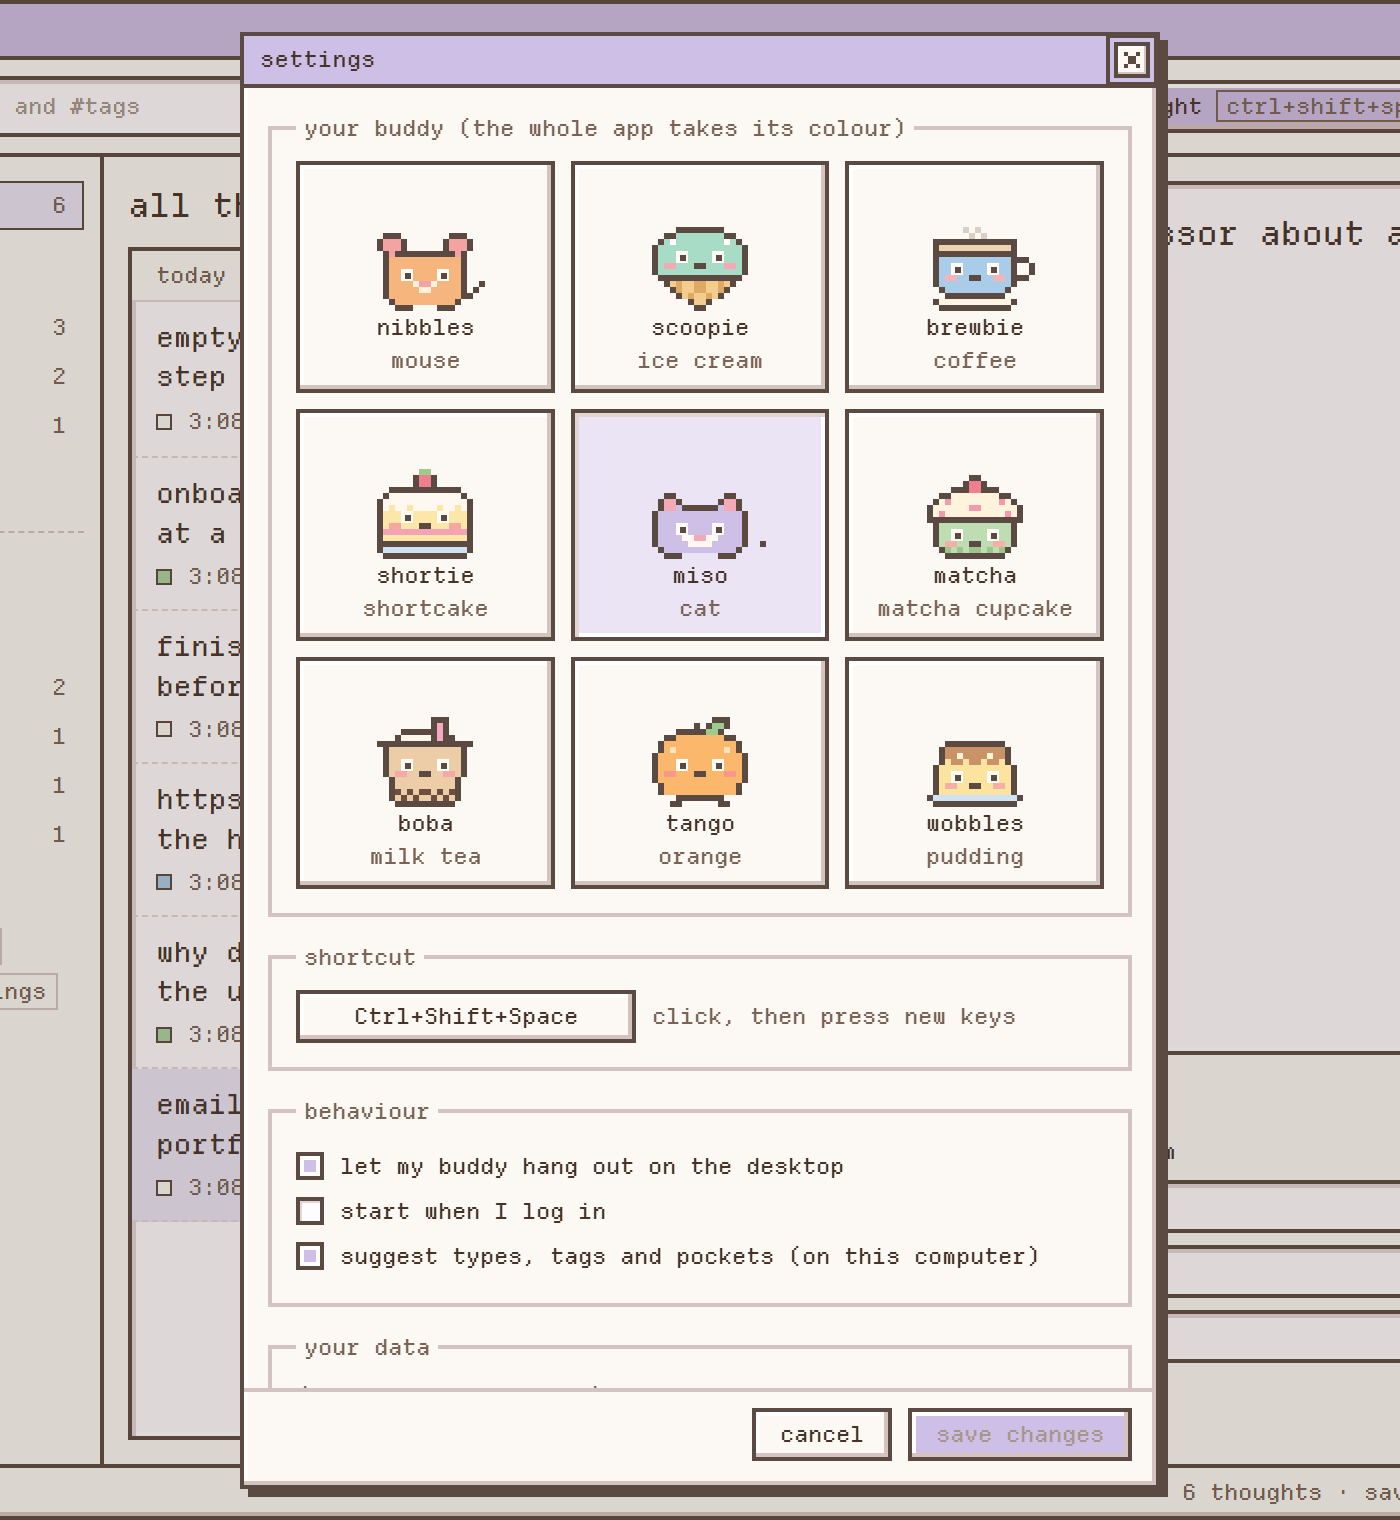
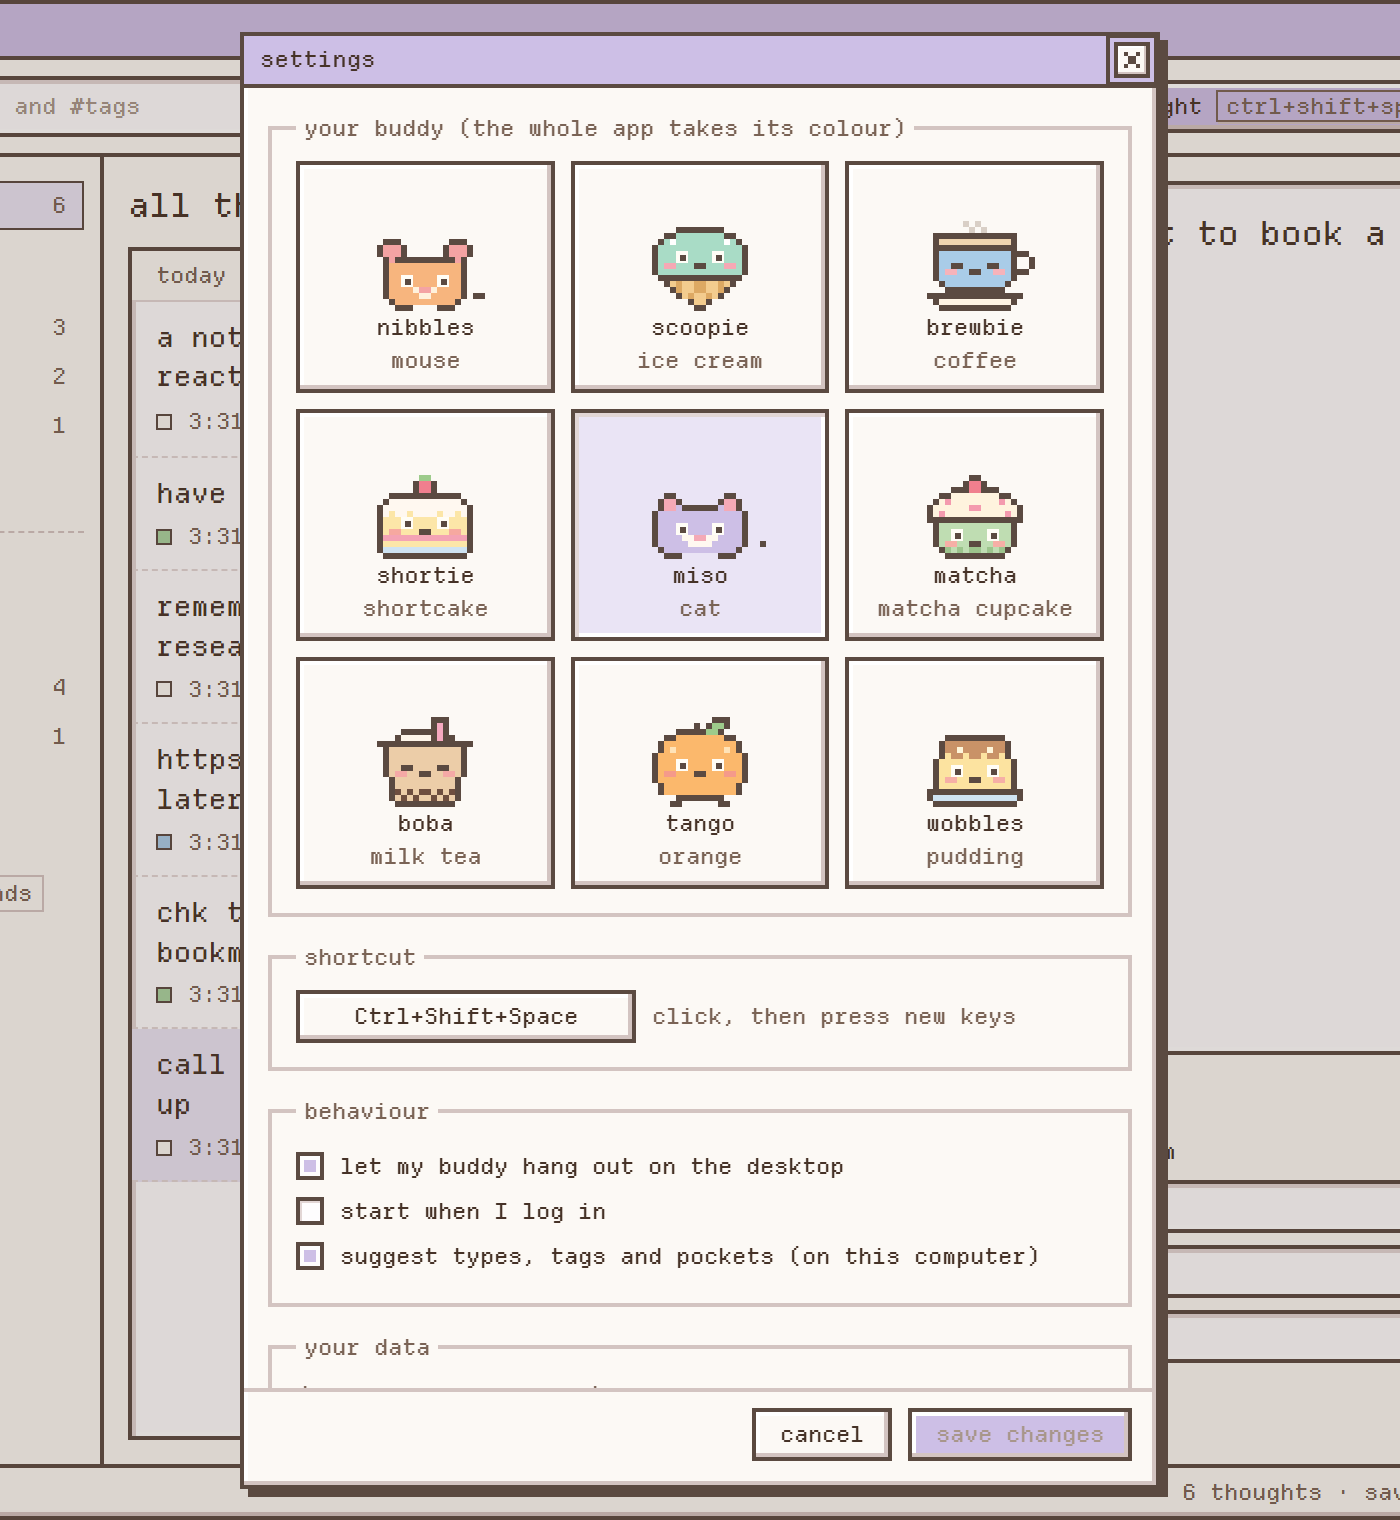
updated readme

diff --git a/src/windows/library/main.ts b/src/windows/library/main.ts
@@ -542,21 +542,21 @@ async function seedDemo() {
   const want = new URLSearchParams(location.search).get("buddy");
   if (!isTauri && want) { const st = await store.load(); await store.saveSettings({ ...st.settings, buddy: want }); }
   if (isTauri || !location.search.includes("demo") || (await store.load()).thoughts.length) return;
-  const pt = await store.addVault("design ideas", "sage");
+  const pt = await store.addVault("study", "sage");
   const rd = await store.addVault("reading list", "sky");
   const samples: [string, string | null, string | null, string[]][] = [
-    ["onboarding idea: show one feature at a time instead of a full tour", pt.id, "Idea", ["onboarding"]],
-    ["finish the user interview notes before thursday's studio", null, "To-do", ["uni"]],
-    ["https://lawsofux.com — read before the hci assignment", rd.id, "Link", ["reference"]],
-    ["why do most settings pages hide the useful options?", pt.id, "Question", ["settings"]],
-    ["email the professor about a portfolio review slot", null, "To-do", ["uni"]],
+    ["have to recap module 5 part 2", pt.id, "To-do", ["study"]],
+    ["remember to email priya about the research notes", null, "To-do", ["work"]],
+    ["https://www.are.na — save for later", rd.id, "Link", ["reference"]],
+    ["chk the new case study in bookmarks", pt.id, "To-do", ["study"]],
+    ["call the dentist to book a check-up", null, "To-do", ["errands"]],
   ];
   for (const [text, v, category, tags] of samples.reverse()) {
     const t = await store.addThought(text, v);
     await store.updateThought(t.id, { category, tags });
   }
-  const t = await store.addThought("empty states could suggest a first step instead of just saying 'nothing here'", null);
-  await store.updateThought(t.id, { suggestion: { category: "Idea", tags: ["empty-states"], vault_id: pt.id } });
+  const t = await store.addThought("a notes app where the mascot reacts to what you write", null);
+  await store.updateThought(t.id, { suggestion: { category: "Idea", tags: ["notes"], vault_id: null } });
 }
 
 store.onChange(reload);

diff --git a/site/template.html b/site/template.html
@@ -52,8 +52,8 @@
       <div class="tucked" aria-label="Thoughts you tucked in this demo">
         <p class="tucked-label caps">tucked away <span class="muted">(this demo keeps them in your browser tab only)</span></p>
         <ol id="demo-list">
-          <li><span class="t">onboarding idea: show one feature at a time instead of a full tour</span><span class="m">idea · #onboarding</span></li>
-          <li><span class="t">finish the user interview notes before thursday's studio</span><span class="m">to-do · #uni</span></li>
+          <li><span class="t">have to recap module 5 part 2</span><span class="m">to-do · #study</span></li>
+          <li><span class="t">remember to email priya about the research notes</span><span class="m">to-do · #work</span></li>
         </ol>
       </div>
     </div>

diff --git a/docs/architecture.md b/docs/architecture.md
@@ -32,16 +32,16 @@ One file: `%APPDATA%\app.tuck.desktop\thoughts.json`
   "version": 1,
   "thoughts": [{
     "id": "1a14d5a8c16000394dc",       // time-sortable
-    "text": "onboarding idea: show one feature at a time",
+    "text": "have to recap module 5 part 2",
     "created_at": 1792299142166,       // ms since 1970
     "updated_at": 1792299142166,
     "vault_id": null,                  // null = main pocket (the data still says "vault")
-    "category": "Idea",                // or null
-    "tags": ["onboarding"],
-    "suggestion": { "category": "Idea", "tags": ["onboarding"], "vault_id": null },
+    "category": "To-do",               // or null
+    "tags": ["study"],
+    "suggestion": { "category": "To-do", "tags": ["study"], "vault_id": null },
     "archived": false
   }],
-  "vaults": [{ "id": "…", "name": "design ideas", "color": "sage", "created_at": 0 }],   // pockets, in the UI
+  "vaults": [{ "id": "…", "name": "study", "color": "sage", "created_at": 0 }],   // pockets, in the UI
   "settings": {
     "shortcut": "Ctrl+Shift+Space", "buddy": "pip",   // "pip" = nibbles (kept for old files)
     "launch_at_login": false, "desk_pet": true, "auto_suggest": true

diff --git a/README.md b/README.md
@@ -122,8 +122,8 @@ just move to your main pocket.
 
 ### little suggestions
 
-after you save, tuck sometimes guesses things like *"this looks like an idea.
-tags: #onboarding. pocket: design ideas"*. you'll see a small **✦ suggestion**
+after you save, tuck sometimes guesses things like *"this looks like a to-do.
+tags: #study. pocket: study"*. you'll see a small **✦ suggestion**
 on the thought. open it and pick **use this** or **no thanks**.
 
 it never changes what you actually wrote. and it all happens on your computer.
